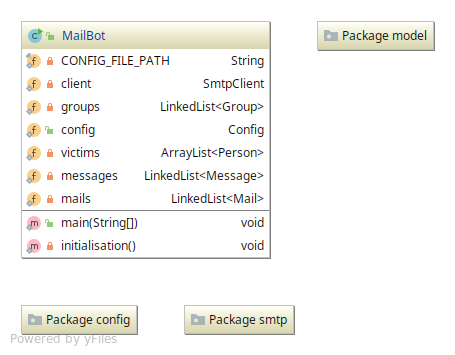
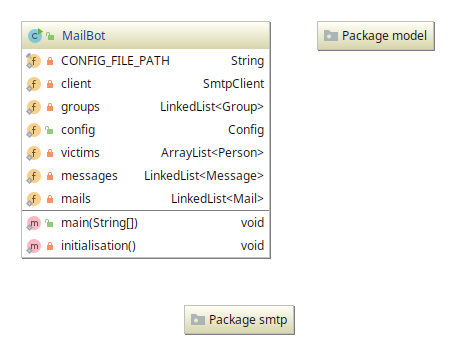
<doc> update the documentation after 44b7e3

Changed region(s): [[0.0308, 0.8676, 0.3077, 0.9606]]

diff --git a/README.md b/README.md
@@ -17,9 +17,7 @@ To set up the mock SMTP server we use a docker container accessible by ports map
 To build the corresponding docker image use the command in the directory named *Docker* :
 
 ```bash
-docker build -t "res-smtp" .  
-
-
+docker build -t "res-smtp" .
 ```
 
 Then run an instance of this fresh docker image with the correct port mapping.
@@ -41,7 +39,7 @@ To run a prank campaign you have to modify 3 files :
    ===
    ```
 
-2. **email.txt**, in this file you will add email addresses of victims, one per line like this :
+2. **emails.txt**, in this file you will add email addresses of victims, one per line like this :
 
    ```bash
    email_1@example.com
@@ -50,9 +48,9 @@ To run a prank campaign you have to modify 3 files :
 
    
 
-3. **config.txt**, in this file you can parametrize SMTP server address, SMTP server Port, number of groups you want to create. In one group, one sender victims is chosen and the other are receiver victim. Default values are :
+3. **config.properties**, in this file you can parametrize SMTP server address, SMTP server Port, number of groups you want to create. In one group, one sender victims is chosen and the other are receiver victim. Default values are :
 
-   ```bash
+   ```properties
    serverAddress=localhost
    serverPort=2525
    nbGroup=2
@@ -77,19 +75,16 @@ Please take note that the username and the passowd are encoded into *Base64* bef
 
 We split the code into 3 sub-packages :
 
-1. config, which contains configuration file and configuration manage class
 
-   ![](figures/Config.png)
-
-2. model, which contains all informations about the victims and emails
+1. model, which contains all informations about the victims and emails
 
    ![](figures/model.png)
 
-3. smtp, which contains relevant code to the protocol SMTP and the TCP client
+2. smtp, which contains relevant code to the protocol SMTP and the TCP client
 
    ![](figures/SMTP.png)
 
-4. All of these package are contained in the package ch.heigvd.res and we found our program main class
+3. All of these package are contained in the package ch.heigvd.res and we found our program main class
 
     ![](figures/MailBot.png)
 
